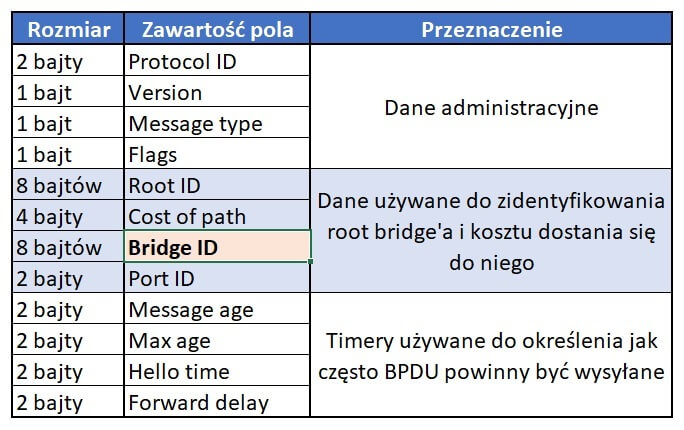
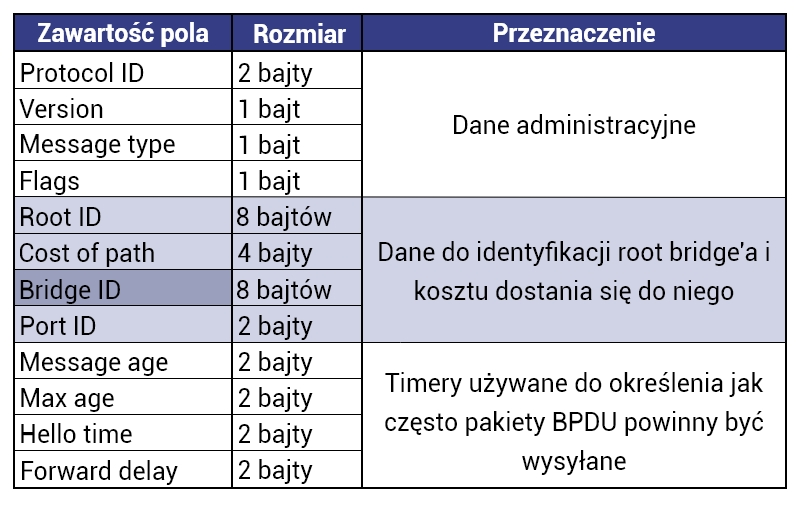
Replace STP images

diff --git a/src/pages/STP/STP.js b/src/pages/STP/STP.js
@@ -1,14 +1,14 @@
 import { Box, Typography } from '@material-ui/core';
 import MainTemplate from '../../templates/MainTemplate/MainTemplate';
 import bpdu from '../../utils/images/bpdu.jpg';
-import stp1 from '../../utils/images/stp1.jpeg';
-import stp2 from '../../utils/images/stp2.jpeg';
-import stp3 from '../../utils/images/stp3.jpeg';
-import stp4 from '../../utils/images/stp4.jpeg';
-import stp5 from '../../utils/images/stp5.jpeg';
-import stp6 from '../../utils/images/stp6.jpeg';
-import stp7 from '../../utils/images/stp7.jpeg';
-import stp8 from '../../utils/images/stp8.jpeg';
+import stp1 from '../../utils/images/stp1.jpg';
+import stp2 from '../../utils/images/stp2.jpg';
+import stp3 from '../../utils/images/stp3.jpg';
+import stp4 from '../../utils/images/stp4.jpg';
+import stp5 from '../../utils/images/stp5.jpg';
+import stp6 from '../../utils/images/stp6.jpg';
+import stp7 from '../../utils/images/stp7.jpg';
+import stp8 from '../../utils/images/stp8.jpg';
 
 const STP = () => {
 	return (
@@ -120,17 +120,7 @@ const STP = () => {
 			</Box>
 			<figure>
 				<img src={bpdu} alt="Pola zawarte w ramce BPDU" />
-				<figcaption>
-					Pola zawarte w ramce BPDU (
-					<a
-						target="_blank"
-						rel="noreferrer"
-						href="https://www.nastykusieci.pl/stp-wprowadzenie/"
-					>
-						źródło
-					</a>
-					)
-				</figcaption>
+				<figcaption>Pola zawarte w ramce BPDU</figcaption>
 			</figure>
 			<Box mb="10px">
 				<Typography variant="body1">
@@ -217,15 +207,7 @@ const STP = () => {
 						alt="Topologia bazowa z przełącznikami połączonymi w trójkąt"
 					/>
 					<figcaption>
-						Topologia bazowa z przełącznikami połączonymi w trójkąt (
-						<a
-							target="_blank"
-							rel="noreferrer"
-							href="https://www.nastykusieci.pl/stp-wprowadzenie/"
-						>
-							źródło
-						</a>
-						)
+						Topologia bazowa z przełącznikami połączonymi w trójkąt
 					</figcaption>
 				</figure>
 			</Box>
@@ -235,17 +217,7 @@ const STP = () => {
 				</Typography>
 				<figure>
 					<img src={stp2} alt="Przełączniki przesyłające między sobą BPDU" />
-					<figcaption>
-						Przełączniki przesyłające między sobą BPDU (
-						<a
-							target="_blank"
-							rel="noreferrer"
-							href="https://www.nastykusieci.pl/stp-wprowadzenie/"
-						>
-							źródło
-						</a>
-						)
-					</figcaption>
+					<figcaption>Przełączniki przesyłające między sobą BPDU</figcaption>
 				</figure>
 			</Box>
 			<Box mb="10px">
@@ -275,15 +247,7 @@ const STP = () => {
 						alt="Porty na Root Bridge’u uzyskują status Designated Portów"
 					/>
 					<figcaption>
-						Porty na Root Bridge’u uzyskują status Designated Portów (
-						<a
-							target="_blank"
-							rel="noreferrer"
-							href="https://www.nastykusieci.pl/stp-wprowadzenie/"
-						>
-							źródło
-						</a>
-						)
+						Porty na Root Bridge’u uzyskują status Designated Portów
 					</figcaption>
 				</figure>
 			</Box>
@@ -297,15 +261,7 @@ const STP = () => {
 						alt="Porty w kierunku Root Bridge’a uzyskują status Root Portów"
 					/>
 					<figcaption>
-						Porty w kierunku Root Bridge’a uzyskują status Root Portów (
-						<a
-							target="_blank"
-							rel="noreferrer"
-							href="https://www.nastykusieci.pl/stp-wprowadzenie/"
-						>
-							źródło
-						</a>
-						)
+						Porty w kierunku Root Bridge’a uzyskują status Root Portów
 					</figcaption>
 				</figure>
 			</Box>
@@ -321,15 +277,7 @@ const STP = () => {
 					<figcaption>
 						Biorąc pod uwagę prędkości poszczególnych interfejsów przełącznik B
 						ma najniższy koszt do Root Bridge’a na porcie Gi 0/3, który przez to
-						staje się Root Portem (
-						<a
-							target="_blank"
-							rel="noreferrer"
-							href="https://www.nastykusieci.pl/stp-wprowadzenie/"
-						>
-							źródło
-						</a>
-						)
+						staje się Root Portem
 					</figcaption>
 				</figure>
 			</Box>
@@ -344,15 +292,7 @@ const STP = () => {
 					/>
 					<figcaption>
 						Port Gi 0/4 na przełączniku B uzyskuje status Designated z uwagi na
-						niższy Bridge ID przełącznika B względem przełącznika C (
-						<a
-							target="_blank"
-							rel="noreferrer"
-							href="https://www.nastykusieci.pl/stp-wprowadzenie/"
-						>
-							źródło
-						</a>
-						)
+						niższy Bridge ID przełącznika B względem przełącznika C
 					</figcaption>
 				</figure>
 			</Box>
@@ -367,15 +307,7 @@ const STP = () => {
 					/>
 					<figcaption>
 						Port Gi 0/5 na przełączniku C uzyskuje status Non-Designated i
-						zostaje zablokowany w celu wyeliminowania pętli w sieci (
-						<a
-							target="_blank"
-							rel="noreferrer"
-							href="https://www.nastykusieci.pl/stp-wprowadzenie/"
-						>
-							źródło
-						</a>
-						)
+						zostaje zablokowany w celu wyeliminowania pętli w sieci
 					</figcaption>
 				</figure>
 			</Box>
